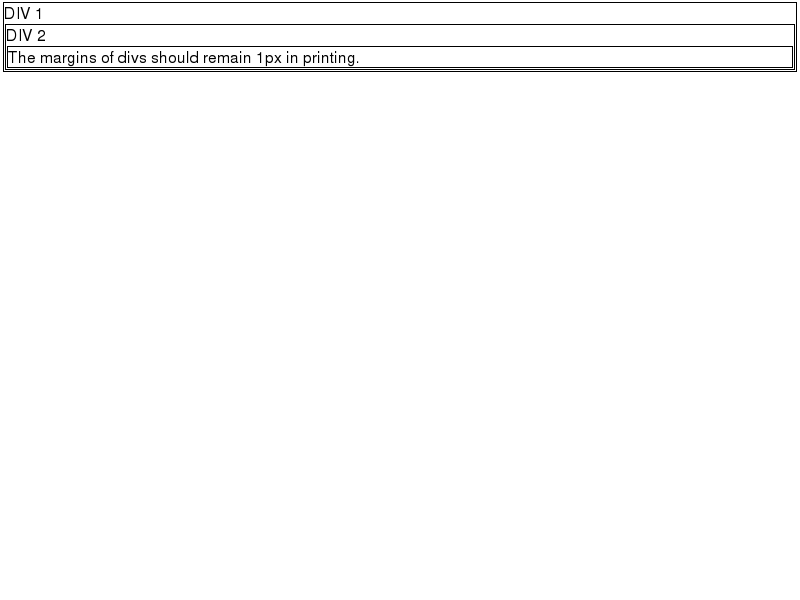
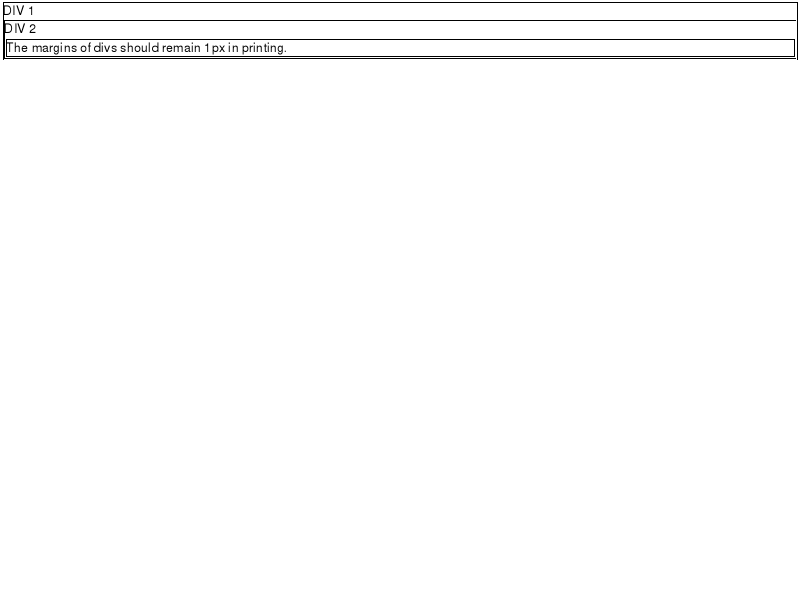
[Qt] add LayoutTestController::setPrinting support to Qt unit tests https://bugs.webkit.org/show_bug.cgi?id=84246
Patch by Milian Wolff <milian.wolff@kdab.com> on 2012-04-25
Reviewed by Simon Hausmann.

Source/WebKit/qt:

* Api/qwebframe.cpp:
(QWebFrame::paintPagesWithBoundaries):
* Api/qwebframe.h:
* WebCoreSupport/DumpRenderTreeSupportQt.cpp:
(DumpRenderTreeSupportQt::paintPagesWithBoundaries):
* WebCoreSupport/DumpRenderTreeSupportQt.h:

Tools:

* DumpRenderTree/qt/DumpRenderTreeQt.cpp:
(WebCore::DumpRenderTree::dump):

LayoutTests:

* platform/qt/printing/compositing-layer-printing-expected.png: Added.
* platform/qt/printing/compositing-layer-printing-expected.txt: Added.
* platform/qt/printing/media-queries-print-expected.png: Added.
* platform/qt/printing/media-queries-print-expected.txt: Added.
* platform/qt/printing/page-rule-in-media-query-expected.png: Added.
* platform/qt/printing/page-rule-in-media-query-expected.txt: Renamed from LayoutTests/platform/qt/printing/page-rule-in-media-query-expected.txt.
* platform/qt/printing/simultaneous-position-float-change-expected.png: Added.
* platform/qt/printing/simultaneous-position-float-change-expected.txt: Added.
* platform/qt/printing/width-overflow-expected.png: Added.
* platform/qt/printing/width-overflow-expected.txt: Added.
* platform/qt/Skipped:
* platform/qt/printing/page-rule-in-media-query-expected.png: Removed.

Identifier: 102364@main
git-svn-id: https://svn.webkit.org/repository/webkit/trunk@115210 268f45cc-cd09-0410-ab3c-d52691b4dbfc

Changed region(s): [[0.0, 0.0, 1.0, 0.12]]

diff --git a/Source/WebKit/qt/WebCoreSupport/DumpRenderTreeSupportQt.cpp b/Source/WebKit/qt/WebCoreSupport/DumpRenderTreeSupportQt.cpp
@@ -100,6 +100,7 @@
 
 #include <QAction>
 #include <QMenu>
+#include <QPainter>
 
 using namespace WebCore;
 
@@ -1211,6 +1212,49 @@ void DumpRenderTreeSupportQt::setHixie76WebSocketProtocolEnabled(QWebPage* page,
     UNUSED_PARAM(page);
     UNUSED_PARAM(enabled);
 #endif
+}
+
+QImage DumpRenderTreeSupportQt::paintPagesWithBoundaries(QWebFrame* qframe)
+{
+    Frame* frame = QWebFramePrivate::core(qframe);
+    PrintContext printContext(frame);
+
+    QRect rect = frame->view()->frameRect();
+
+    IntRect pageRect(0, 0, rect.width(), rect.height());
+
+    printContext.begin(pageRect.width(), pageRect.height());
+    float pageHeight = 0;
+    printContext.computePageRects(pageRect, /* headerHeight */ 0, /* footerHeight */ 0, /* userScaleFactor */ 1.0, pageHeight);
+
+    QPainter painter;
+    int pageCount = printContext.pageCount();
+    // pages * pageHeight and 1px line between each page
+    int totalHeight = pageCount * (pageRect.height() + 1) - 1;
+    QImage image(pageRect.width(), totalHeight, QImage::Format_ARGB32);
+    image.fill(Qt::white);
+    painter.begin(&image);
+
+    GraphicsContext ctx(&painter);
+    for (int i = 0; i < printContext.pageCount(); ++i) {
+        printContext.spoolPage(ctx, i, pageRect.width());
+        // translate to next page coordinates
+        ctx.translate(0, pageRect.height() + 1);
+
+        // if there is a next page, draw a blue line between these two
+        if (i + 1 < printContext.pageCount()) {
+            ctx.save();
+            ctx.setStrokeColor(Color(0, 0, 255), ColorSpaceDeviceRGB);
+            ctx.setFillColor(Color(0, 0, 255), ColorSpaceDeviceRGB);
+            ctx.drawLine(IntPoint(0, -1), IntPoint(pageRect.width(), -1));
+            ctx.restore();
+        }
+    }
+
+    painter.end();
+    printContext.end();
+
+    return image;
 }
 
 // Provide a backward compatibility with previously exported private symbols as of QtWebKit 4.6 release

diff --git a/Tools/DumpRenderTree/qt/DumpRenderTreeQt.cpp b/Tools/DumpRenderTree/qt/DumpRenderTreeQt.cpp
@@ -949,11 +949,15 @@ void DumpRenderTree::dump()
     fputs("#EOF\n", stderr);
 
     if (m_dumpPixels && !m_controller->shouldDumpAsText()) {
-        QImage image(m_page->viewportSize(), QImage::Format_ARGB32);
-        image.fill(Qt::white);
-        QPainter painter(&image);
-        mainFrame->render(&painter);
-        painter.end();
+        QImage image;
+        if (!m_controller->isPrinting()) {
+            image = QImage(m_page->viewportSize(), QImage::Format_ARGB32);
+            image.fill(Qt::white);
+            QPainter painter(&image);
+            mainFrame->render(&painter);
+            painter.end();
+        } else
+            image = DumpRenderTreeSupportQt::paintPagesWithBoundaries(mainFrame);
 
         QCryptographicHash hash(QCryptographicHash::Md5);
         for (int row = 0; row < image.height(); ++row)

diff --git a/Source/WebKit/qt/WebCoreSupport/DumpRenderTreeSupportQt.h b/Source/WebKit/qt/WebCoreSupport/DumpRenderTreeSupportQt.h
@@ -234,6 +234,8 @@ public:
 
     static bool defaultHixie76WebSocketProtocolEnabled();
     static void setHixie76WebSocketProtocolEnabled(QWebPage*, bool);
+
+    static QImage paintPagesWithBoundaries(QWebFrame*);
 };
 
 #endif
